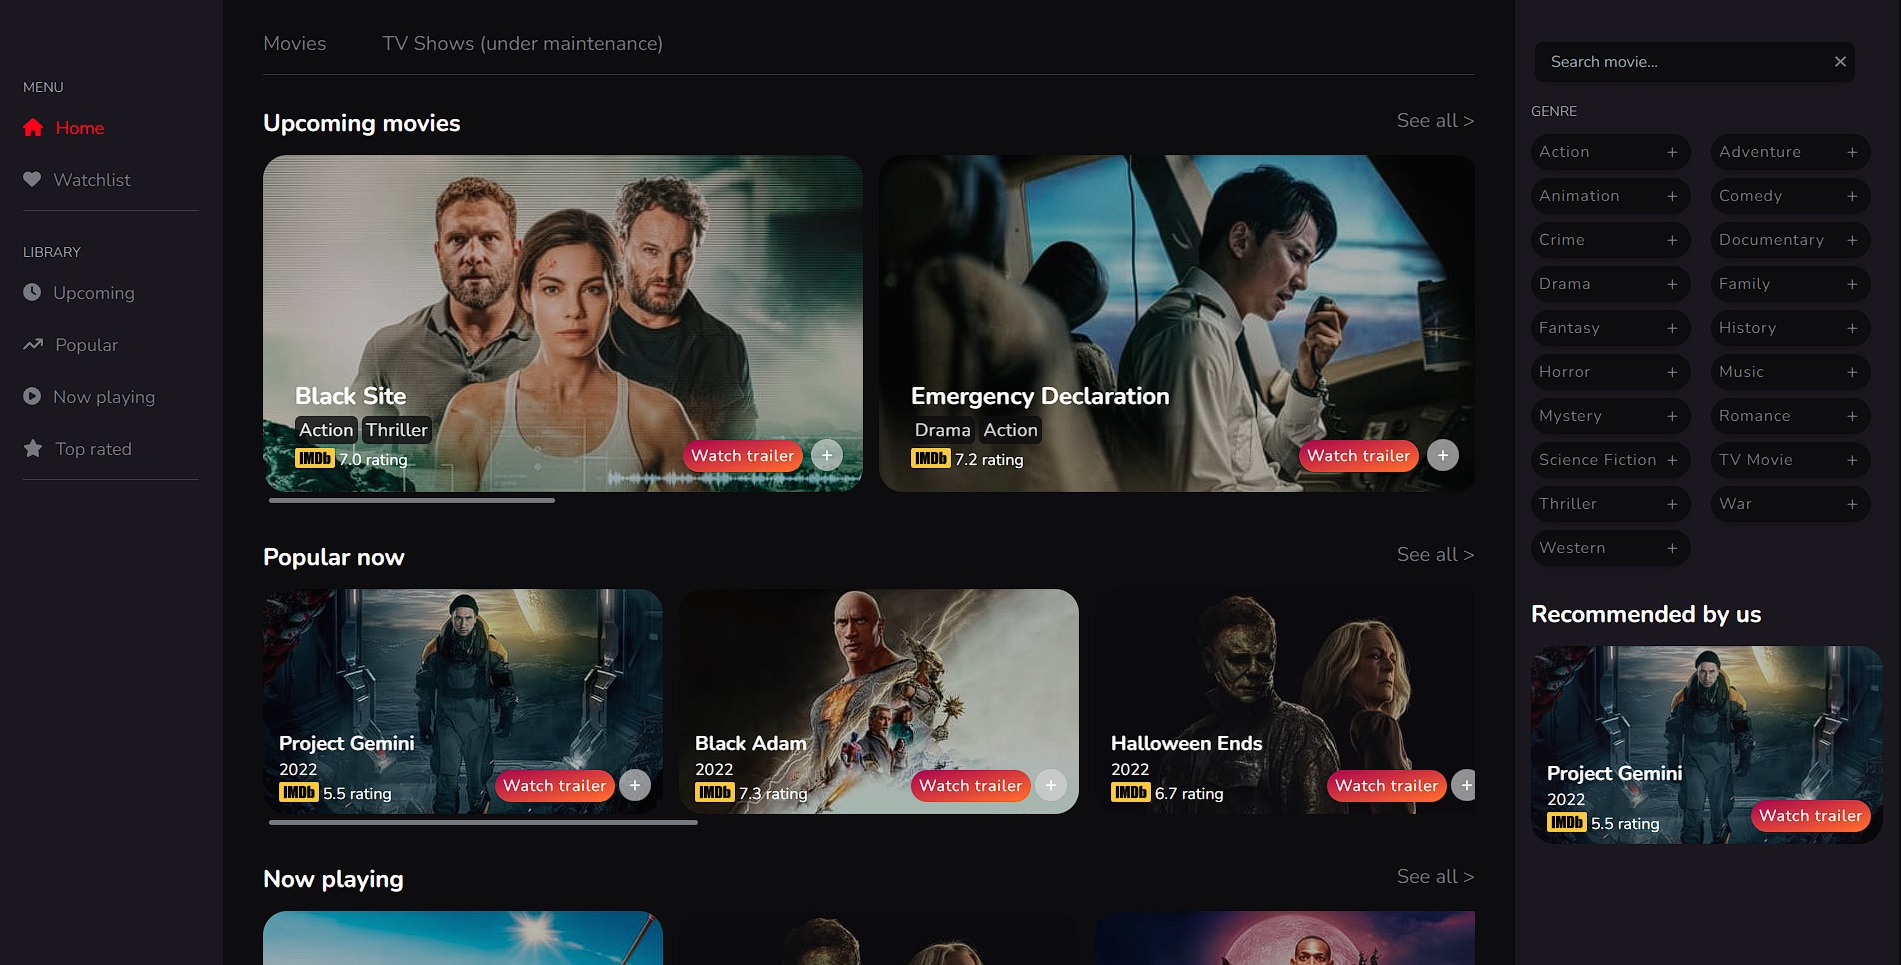
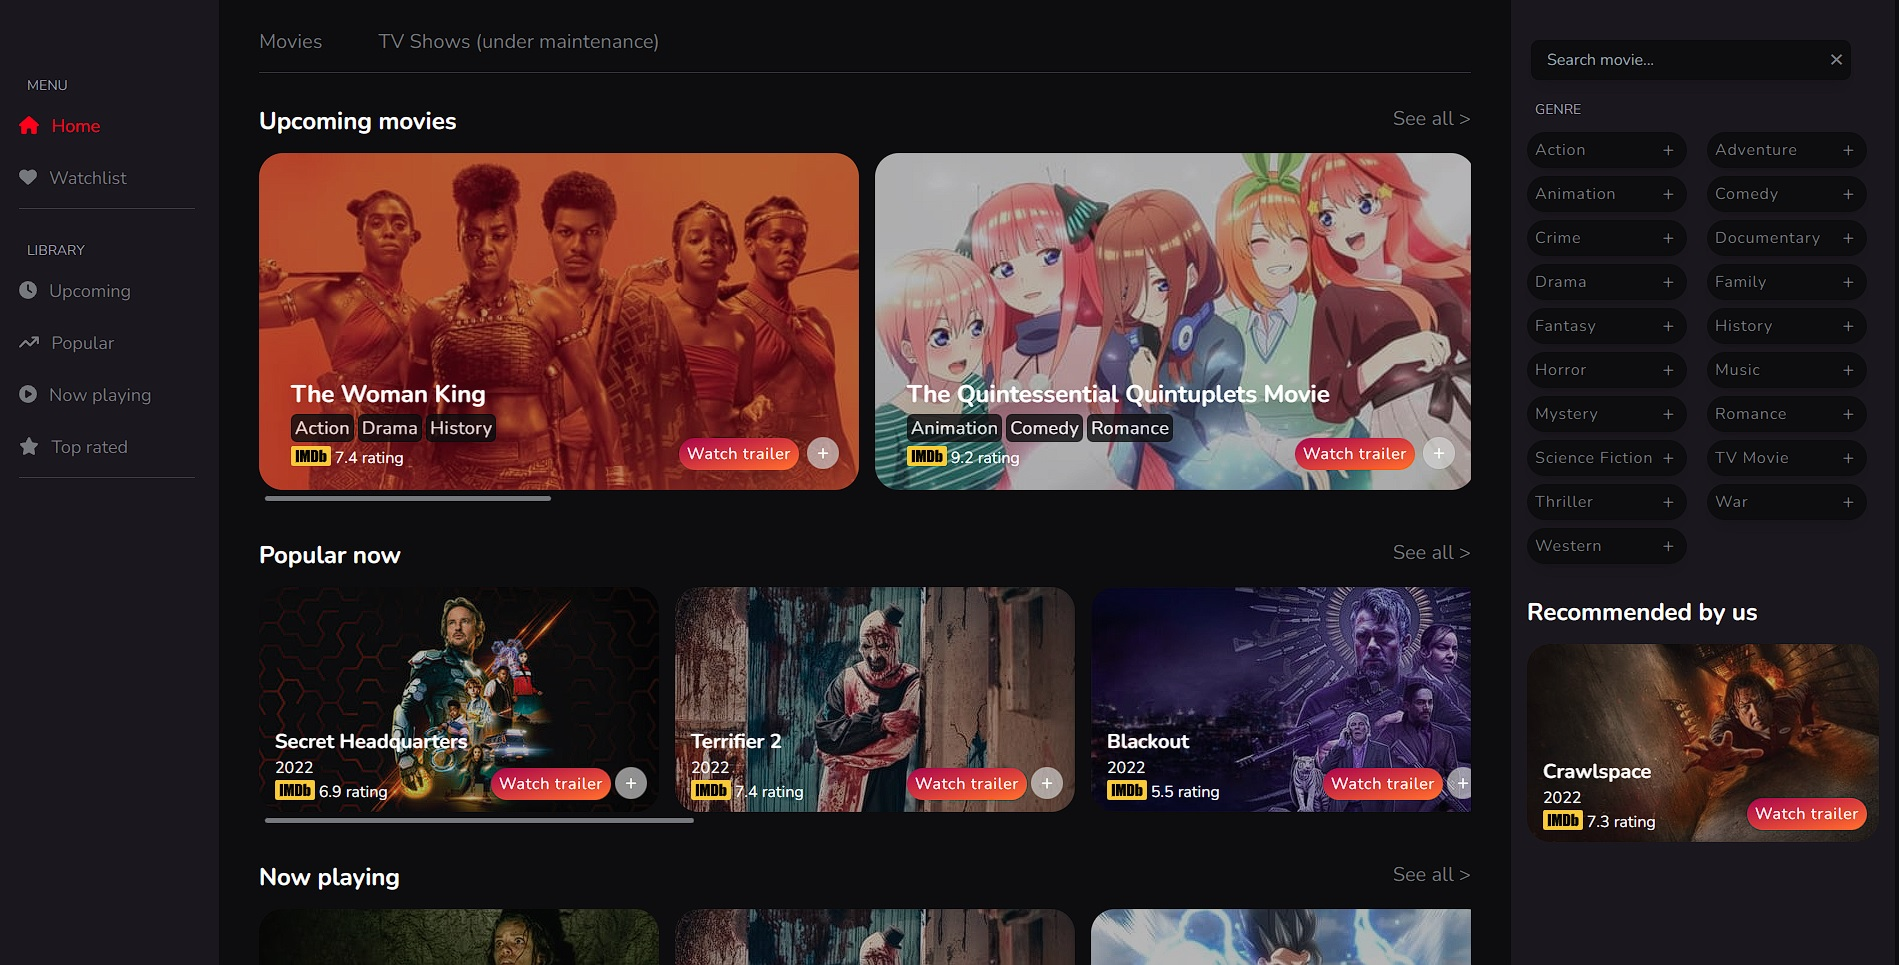
Added links for movie app in the portofolio menu, switched the resume builder slider with movie app slider

diff --git a/src/components/Slider/MacBookSlides.js b/src/components/Slider/MacBookSlides.js
@@ -2,7 +2,7 @@ import React from 'react';
 import team1 from '../../assets/img/cocktail-recipes.jpg';
 import team2 from '../../assets/img/food-recipes.jpg';
 import team3 from '../../assets/img/best-seo-agency.jpg';
-import team4 from '../../assets/img/resume-builder.jpg';
+import team4 from '../../assets/img/movie-app.jpg';
 import macbook from '../../assets/img/macbook.png';
 import './MacBookSlides.css';
 
@@ -75,7 +75,7 @@ export default function MacBookSlides() {
 									SEO Agency
 								</div>
 								<div className='auto-btn4 border-transparent border-solid border-b-2 p-1 duration-500 dark:border-[#3b3a51]'>
-									Resume builder
+									Movie app
 								</div>
 							</div>
 							{/* <!--automatic navigation end--> */}

diff --git a/src/components/Slider/IphoneSlides.js b/src/components/Slider/IphoneSlides.js
@@ -2,7 +2,7 @@ import React from 'react';
 import team1phone from '../../assets/img/cocktail-recipes-phone.jpg';
 import team2phone from '../../assets/img/food-recipes-phone.jpg';
 import team3phone from '../../assets/img/best-seo-agency-phone.jpg';
-import team4phone from '../../assets/img/resume-builder-phone.jpg';
+import team4phone from '../../assets/img/movie-app-phone.jpg';
 import iphone from '../../assets/img/iphone12pro.png';
 import './IphoneSlides.css';
 

diff --git a/src/components/Portofolio/Portofolio.js b/src/components/Portofolio/Portofolio.js
@@ -41,7 +41,7 @@ export default function Portofolio() {
 					market, to find movies similar to your preferences more quickly
 					and to add movies to favorites without having to create a
 					account.'
-					projectGithubLink='#'
+					projectGithubLink='https://github.com/catalingeorgechitu/movie-app'
 				/>
 
 				<Card
